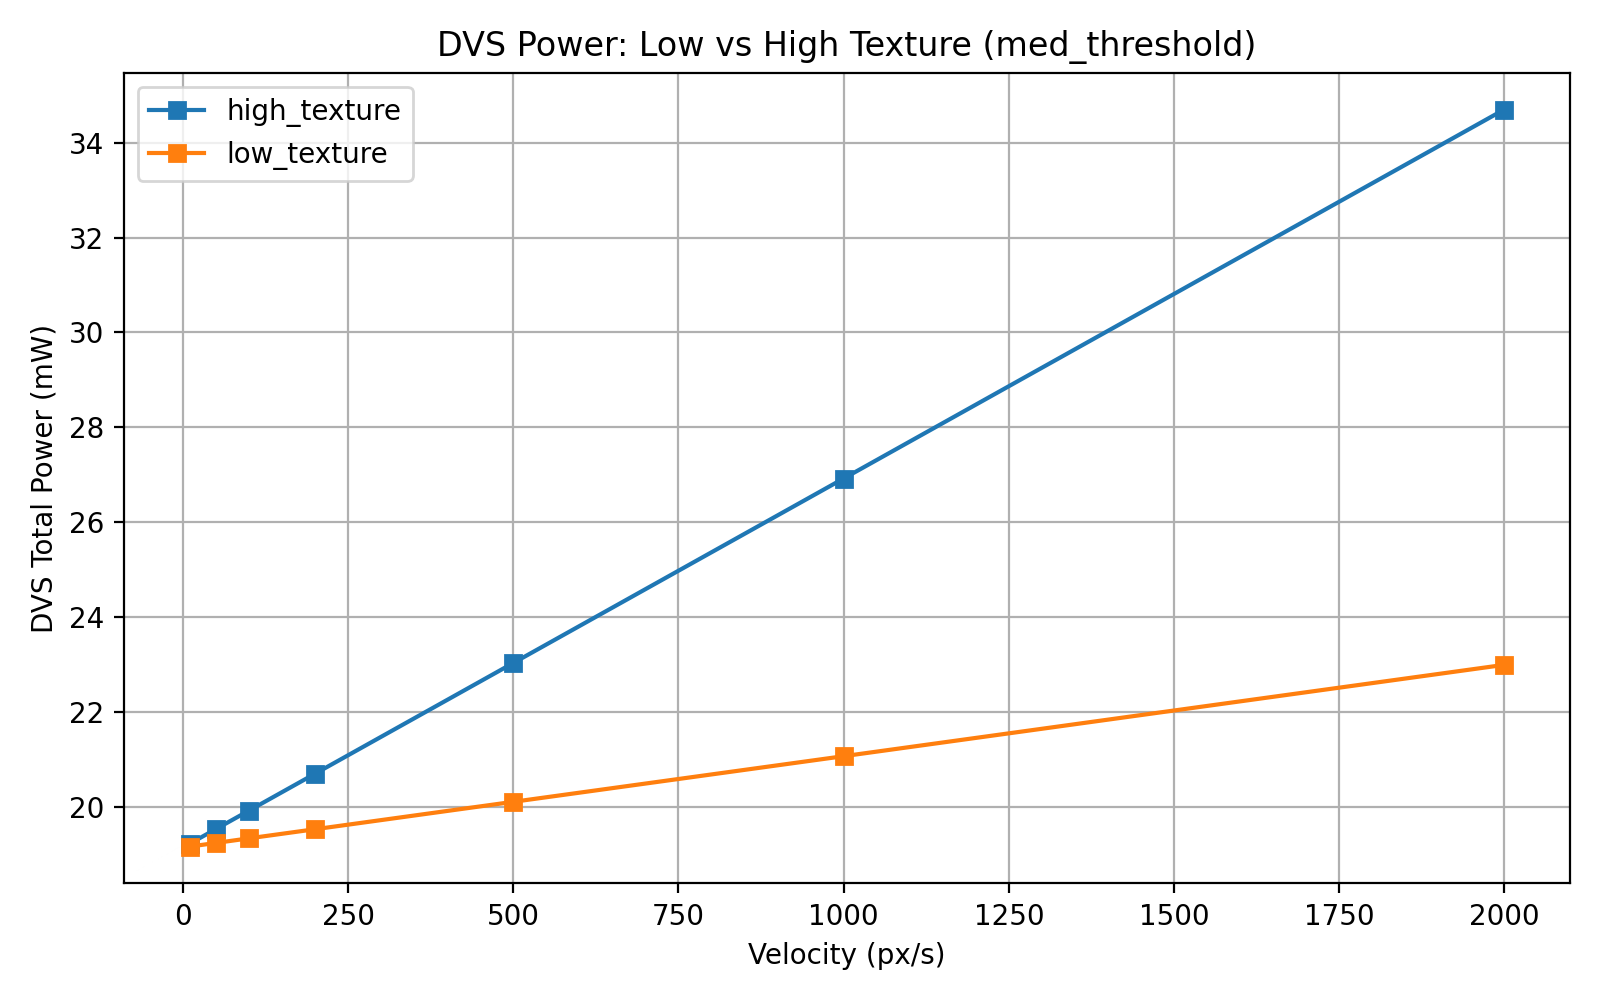
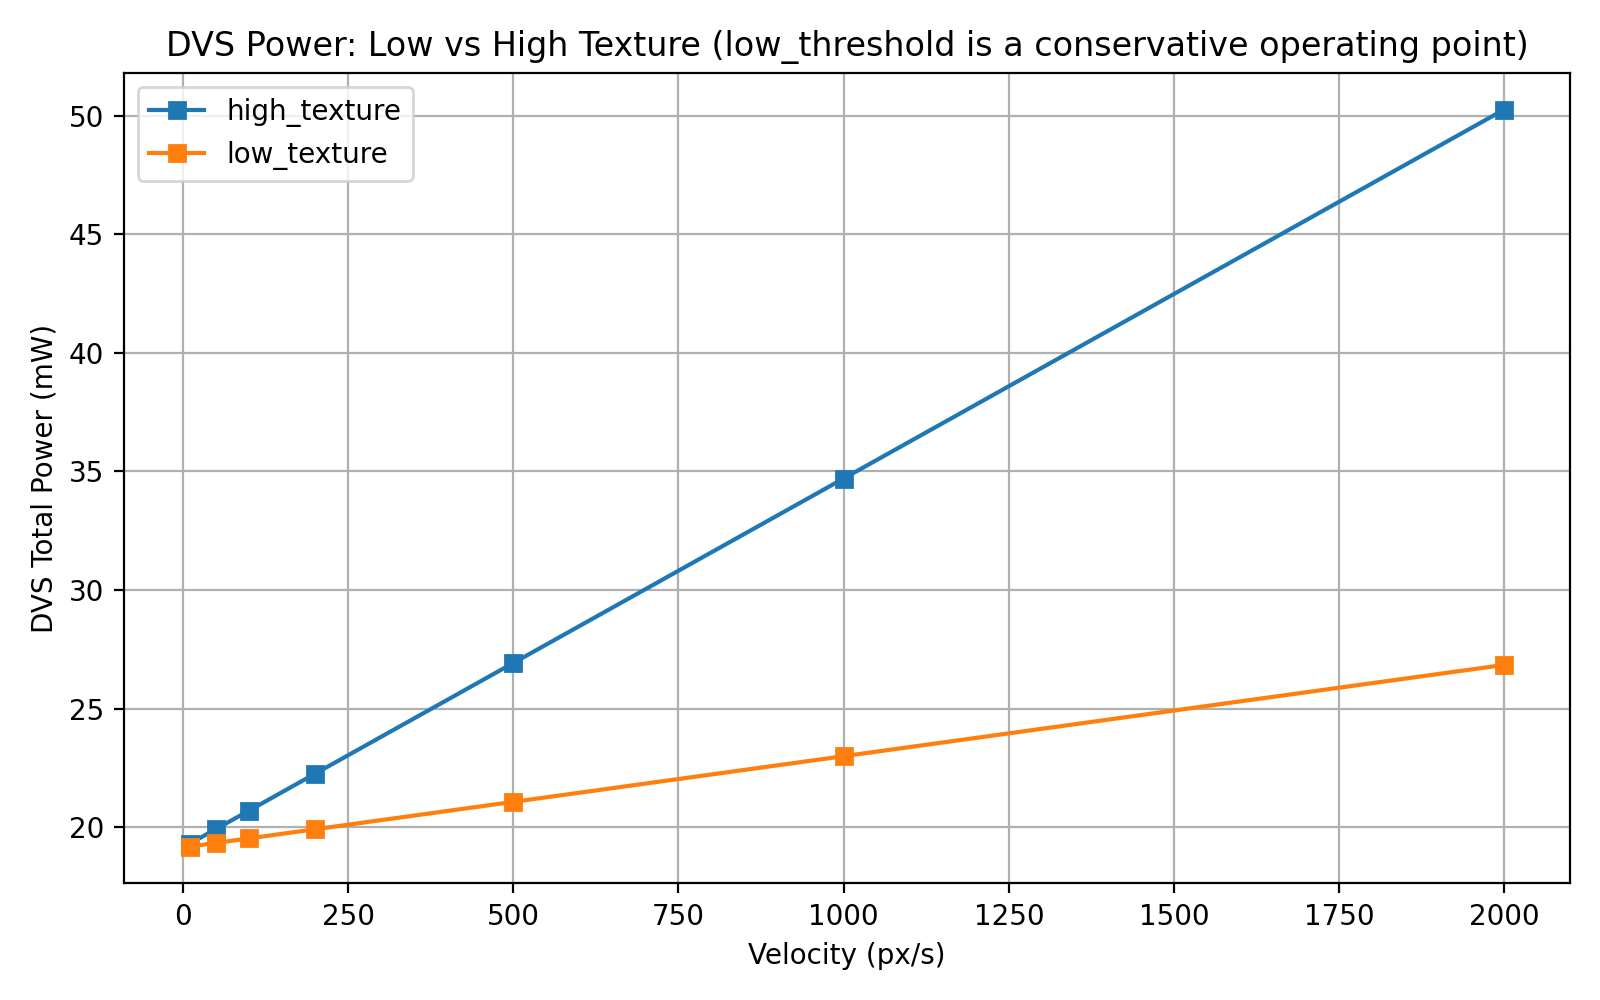
added object tracking flag in the dvs_model

diff --git a/Ishs-work/dvs_model.py b/Ishs-work/dvs_model.py
@@ -24,8 +24,10 @@ P_STATIC_MW    = (0.3 + 5.5) * 3.3                             # 19.14 mW
 # Dynamic energy per event: core current (1.5mA) / max event rate (1M ev/s)
 E_PER_EVENT_NJ = (1.5 * 3.3 * 1e-3) / 1_000_000 * 1e9          # 4.95 nJ
 
+
+# Not approached in our velocity range but kept for physical correctness
 # Refractory cap scaled from 128x128 to 640x480
-REFRACTORY_CAP = 1_000_000 * (scene_width * scene_height) / (128 * 128)  # 18.75M ev/s
+# REFRACTORY_CAP = 1_000_000 * (scene_width * scene_height) / (128 * 128)  # 18.75M ev/s
 
 # --- Temporal Variation Sequence ---
 # Velocity range is extended beyond the scene model (up to 2000 px/s) to make the
@@ -63,19 +65,26 @@ def compute_pixel_breakdown(obj_size: int, bg_density: float, velocity: float = 
 
 # --- Core Model ---
 
-def compute_dvs_power(event_rate_raw: float, theta: float = BASELINE_THETA) -> dict:
+def compute_dvs_power(event_rate_raw: float, theta: float = BASELINE_THETA,
+                      obj_size: int = 50, velocity: float = 100) -> dict:
     event_rate_scaled = event_rate_raw * (BASELINE_THETA / theta)
-    saturated         = event_rate_scaled > REFRACTORY_CAP
-    event_rate_eff    = min(event_rate_scaled, REFRACTORY_CAP)
+    event_rate_eff    = event_rate_scaled
     power_dynamic_mW  = (event_rate_eff * E_PER_EVENT_NJ * 1e-9) * 1e3
     power_total_mW    = P_STATIC_MW + power_dynamic_mW
+
+    # Tracking feasibility: DVS can track if it fires enough events to detect the object edge
+    # at least once per object-crossing time. Minimum rate = object perimeter × velocity / size.
+    # Below this, the object moves through the frame before enough events are generated to track it.
+    min_detection_rate = 4 * obj_size * (velocity / obj_size)   # events/sec needed
+    dvs_can_track      = int(event_rate_eff >= min_detection_rate)
+
     return {
         'event_rate_scaled':  round(event_rate_scaled, 1),
         'event_rate_eff':     round(event_rate_eff, 1),
         'power_static_mW':    round(P_STATIC_MW, 3),
         'power_dynamic_mW':   round(power_dynamic_mW, 3),
         'power_total_mW':     round(power_total_mW, 3),
-        'saturated':          int(saturated),
+        'dvs_can_track':      dvs_can_track,
     }
 
 # --- Run All Scenes ---
@@ -95,7 +104,7 @@ def run_all_scenes() -> pd.DataFrame:
                         'threshold_name': th_name,
                         'theta':          theta,
                         'event_rate_raw': raw_rate,
-                        **compute_dvs_power(raw_rate, theta),
+                        **compute_dvs_power(raw_rate, theta, obj_size, vel),
                         **px_info,
                     })
     return pd.DataFrame(rows)
@@ -140,7 +149,7 @@ def plot_pixel_breakdown(df, out_dir):
                   loc='upper right', fontsize=8)
 
     plt.suptitle('DVS: Active vs Silent Pixels at Worst-Case Velocity\n'
-                 'Static power covers ALL pixels — active fraction is tiny',
+                 'Static power covers ALL pixels - active fraction is tiny',
                  fontweight='bold')
     plt.tight_layout()
     plt.savefig(os.path.join(out_dir, 'dvs_pixel_breakdown.png'), dpi=200)
@@ -176,8 +185,8 @@ def get_cis_worst_case_power_mw() -> float | None:
         return None
     import pandas as _pd
     cis_df = _pd.read_csv(cis_csv)
-    # Cap at 500 — Harshita's CSV only covers up to 500 px/s regardless of scene model range
-    worst_vel = min(max(velocities), 500)
+    # Harshita's CSV now covers the full velocity range (up to 2000 px/s)
+    worst_vel = max(velocities)
     row = cis_df[(cis_df['velocity_px_s'] == worst_vel) &
                  (cis_df['object_size_px'] == TEMPORAL_OBJ_SIZE)]
     return float(row['power_mW'].values[0]) if not row.empty else None
@@ -215,7 +224,7 @@ def plot_temporal_variation(df_temporal, out_dir):
                xlabel='Time (s)', ylabel='Power (mW)')
         ax.legend(); ax.grid(True)
 
-    plt.suptitle('DVS: Temporal Variation — Power Tracks Scene Activity\n'
+    plt.suptitle('DVS: Temporal Variation (power tracks scene activity)\n'
                  '(CIS locked to worst-case FPS regardless of velocity)',
                  fontweight='bold')
     plt.tight_layout()
@@ -239,11 +248,13 @@ def plot_power_vs_velocity(df, out_dir):
     plt.close()
 
 def plot_power_vs_background(df, out_dir):
+    # low_threshold (θ=0.10) is the most sensitive/reliable DVS setting — equivalent to
+    # CIS using a 10x safety factor. Using this as the fair comparison point.
     fig, ax = plt.subplots(figsize=(8, 5))
-    for bg_name, bg_df in df[df['threshold_name'] == 'med_threshold'].groupby('background'):
+    for bg_name, bg_df in df[df['threshold_name'] == 'low_threshold'].groupby('background'):
         sub = bg_df[bg_df['object_size_px'] == 50].sort_values('velocity_px_s')
         ax.plot(sub['velocity_px_s'], sub['power_total_mW'], marker='s', label=bg_name)
-    ax.set(title='DVS Power: Low vs High Texture (med_threshold)',
+    ax.set(title='DVS Power: Low vs High Texture (low_threshold is a conservative operating point)',
            xlabel='Velocity (px/s)', ylabel='DVS Total Power (mW)')
     ax.legend(); ax.grid(True)
     plt.tight_layout()
@@ -276,7 +287,7 @@ def plot_static_vs_dynamic(df, out_dir):
     ax1.bar(x, sub['power_static_mW'], label='Static (mW)', color='steelblue')
     ax1.bar(x, sub['power_dynamic_mW'], label='Dynamic (mW)', color='tomato',
             bottom=sub['power_static_mW'])
-    ax1.set(title='DVS Power Breakdown — Full View',
+    ax1.set(title='DVS Power Breakdown: Full View',
             xlabel='Velocity (px/s)', ylabel='Power (mW)')
     ax1.legend(); ax1.grid(True, axis='y')
 
@@ -285,12 +296,12 @@ def plot_static_vs_dynamic(df, out_dir):
     for i, (_, r) in enumerate(sub.iterrows()):
         ax2.text(i, r['power_dynamic_mW'] + 0.002,
                  f"{r['power_dynamic_mW']:.3f}", ha='center', fontsize=8)
-    ax2.set(title='Dynamic Power Only — Zoomed',
+    ax2.set(title='Dynamic Power Only: Zoomed',
             xlabel='Velocity (px/s)', ylabel='Dynamic Power (mW)')
     ax2.legend(); ax2.grid(True, axis='y')
 
     plt.suptitle('DVS Power Breakdown (high_threshold, low_texture)\n'
-                 'Static power dominates — dynamic is barely visible at full scale',
+                 'Static power dominates (dynamic is barely visible at full scale)',
                  fontweight='bold')
     plt.tight_layout()
     plt.savefig(os.path.join(out_dir, 'dvs_power_breakdown.png'), dpi=200)
@@ -305,8 +316,7 @@ if __name__ == '__main__':
     df = run_all_scenes()
     df.to_csv(os.path.join(OUT_DIR, 'dvs_all_scenes_summary.csv'), index=False)
 
-    print(f'P_static = {P_STATIC_MW:.2f} mW | E_per_event = {E_PER_EVENT_NJ:.3f} nJ | '
-          f'Refractory cap = {REFRACTORY_CAP/1e6:.2f}M ev/s')
+    print(f'P_static = {P_STATIC_MW:.2f} mW | E_per_event = {E_PER_EVENT_NJ:.3f} nJ')
     # print(df[(df['threshold_name'] == 'med_threshold') &
     # (df['background'] == 'low_texture')].to_string(index=False))
 
